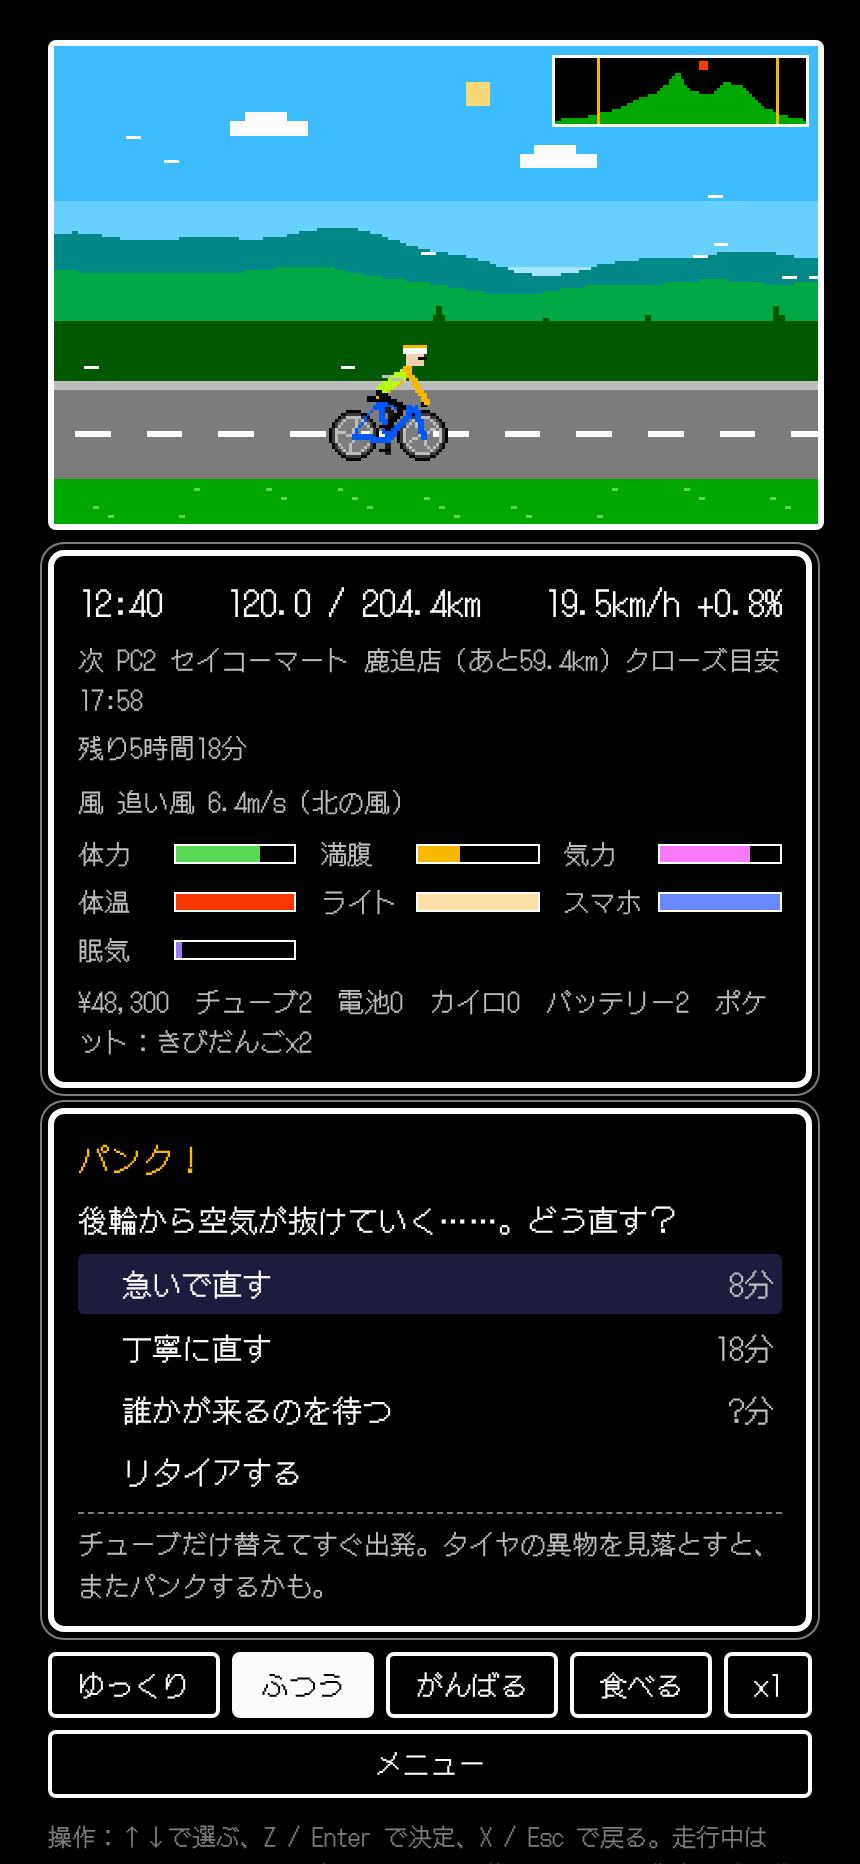
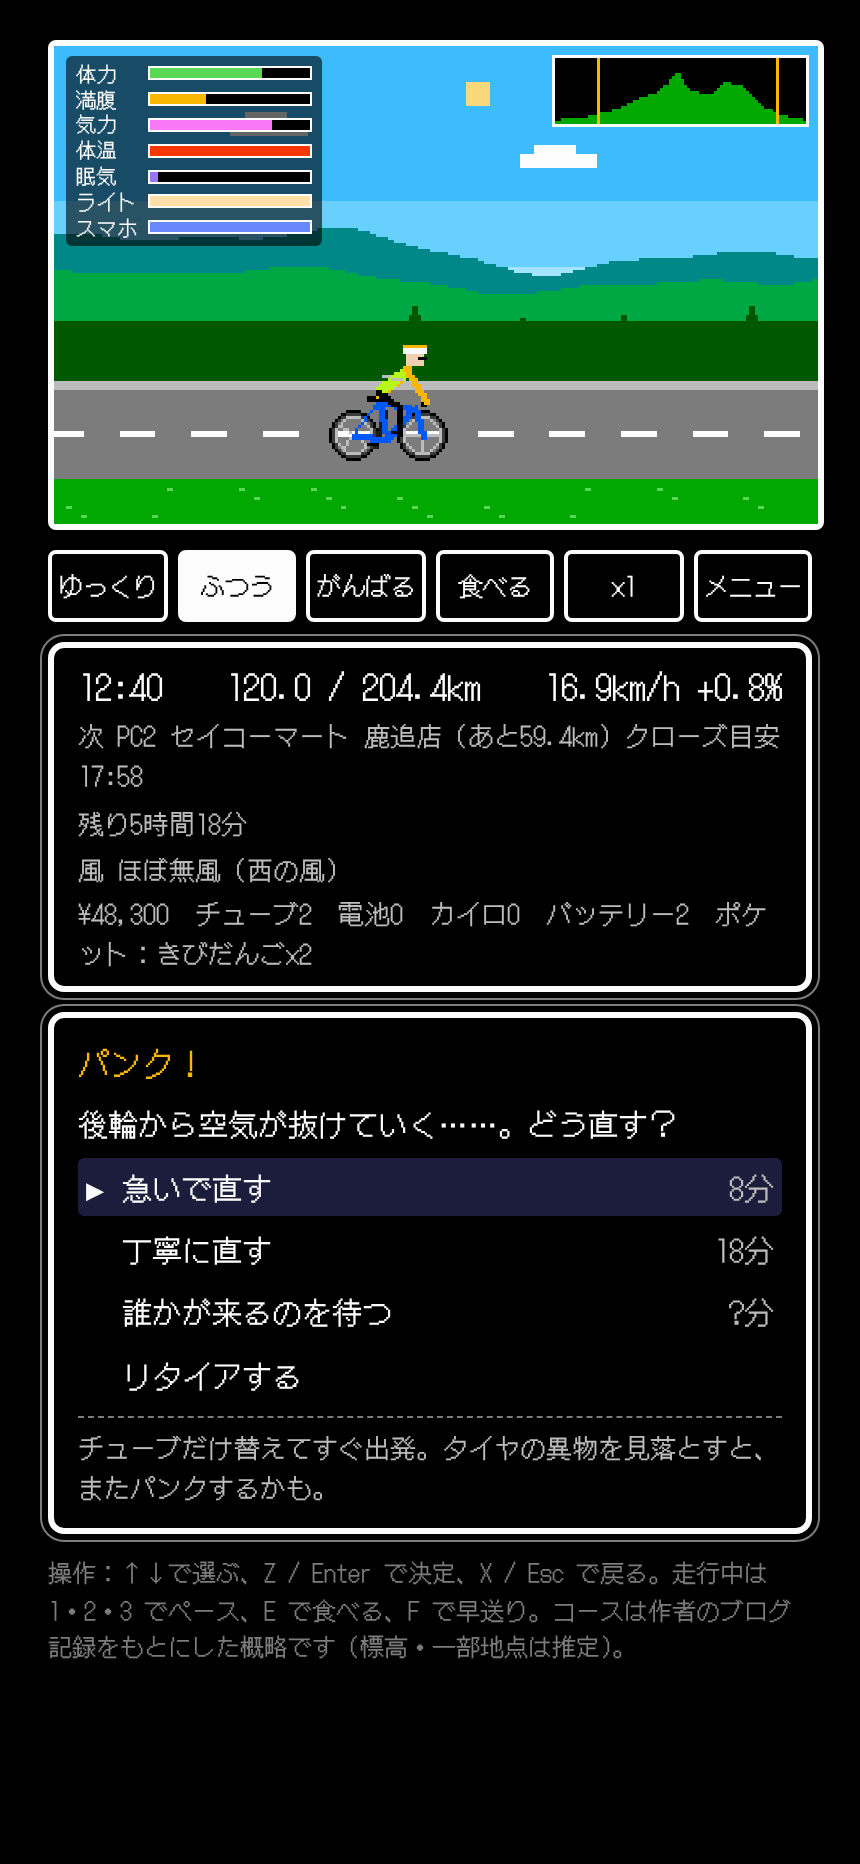
操作ボタンをゲーム画面のすぐ下に、ゲージを画面左上に重ねて表示
スクロールせずに操作できるように。スクリーンショットも撮り直し。

Claude-Session: https://claude.ai/code/session_015UeBf5kKfem5CacwLkgUne

diff --git a/app/index.html b/app/index.html
@@ -25,8 +25,14 @@ body{background:var(--bg);color:var(--fg);font-family:var(--pixel);font-size:15p
 #app{max-width:560px;margin:0 auto;padding-block:12px 24px;display:flex;flex-direction:column;gap:10px}
 #screen{position:relative;width:100%;aspect-ratio:256/160;max-width:100%;border:3px solid var(--fg);border-radius:4px;overflow:hidden;background:#000}
 #cv{width:100%;height:100%;display:block;image-rendering:pixelated;image-rendering:crisp-edges}
+#gauges{position:absolute;left:1.5%;top:2%;width:31%;background:rgba(0,0,0,.6);border-radius:3px;padding:3px 5px;display:flex;flex-direction:column;gap:1px;font-size:clamp(8px,2.4vw,11px);line-height:1.15}
+#gauges .g{display:flex;align-items:center;gap:4px;min-width:0}
+#gauges span{flex:0 0 3.1em;color:var(--fg);white-space:nowrap}
+#gauges i{flex:1;height:5px;border:1px solid var(--fg);position:relative;display:block;min-width:0;background:#000}
+#gauges b{position:absolute;inset:0 auto 0 0;display:block}
+#gauges .low span{color:var(--red);animation:blink .6s steps(1) infinite}
 .box{border:3px solid var(--fg);border-radius:8px;padding:10px 12px;background:var(--bg);box-shadow:0 0 0 3px var(--bg),0 0 0 4px var(--mute)}
-#hud{display:flex;flex-direction:column;gap:6px;font-variant-numeric:tabular-nums}
+#hud{display:flex;flex-direction:column;gap:2px;font-variant-numeric:tabular-nums;padding-block:6px}
 #hud .row{display:flex;flex-wrap:wrap;gap:4px 14px;justify-content:space-between}
 #hud .big{font-size:17px}
 #hud .small{font-size:13px;color:var(--dim)}
@@ -36,7 +42,7 @@ body{background:var(--bg);color:var(--fg);font-family:var(--pixel);font-size:15p
 .bar label{flex:0 0 auto;width:3.2em;color:var(--dim)}
 .bar i{flex:1;height:8px;border:1px solid var(--fg);display:block;position:relative;min-width:0}
 .bar b{position:absolute;inset:0 auto 0 0;display:block;width:50%}
-#win{min-height:150px;display:flex;flex-direction:column;gap:6px}
+#win{min-height:120px;display:flex;flex-direction:column;gap:6px}
 .w-title{color:var(--gold);font-size:16px;text-wrap:balance}
 .w-text{white-space:pre-line}
 .w-live{color:var(--sky);font-variant-numeric:tabular-nums}
@@ -54,8 +60,8 @@ body{background:var(--bg);color:var(--fg);font-family:var(--pixel);font-size:15p
 .log p{margin:0}
 .log p:last-child{color:var(--fg)}
 .log p:not(:last-child){color:var(--mute)}
-#ctrl{display:flex;flex-wrap:wrap;gap:6px}
-#ctrl button{all:unset;cursor:pointer;border:2px solid var(--fg);border-radius:4px;padding:4px 10px;font-size:14px;flex:1 1 auto;text-align:center}
+#ctrl{display:grid;grid-template-columns:repeat(6,minmax(0,1fr));gap:5px}
+#ctrl button{all:unset;cursor:pointer;border:2px solid var(--fg);border-radius:4px;padding:6px 0;font-size:clamp(10px,3vw,13px);letter-spacing:-.04em;text-align:center;white-space:nowrap;overflow:hidden;min-width:0}
 #ctrl button.on{background:var(--fg);color:var(--bg)}
 #ctrl button:focus-visible{outline:2px solid var(--gold);outline-offset:2px}
 .help{font-size:12px;color:var(--mute)}
@@ -68,23 +74,16 @@ a{color:var(--sky)}
 </head>
 <body>
 <div id="app">
-  <div id="screen"><canvas id="cv" width="256" height="160" aria-label="ゲーム画面"></canvas></div>
-  <div id="hud" class="box" hidden>
-    <div class="row big"><span id="h-time"></span><span id="h-dist"></span><span id="h-spd"></span></div>
-    <div class="row small" id="h-next"></div>
-    <div class="row small" id="h-wx"></div>
-    <div class="bars">
-      <div class="bar"><label>体力</label><i><b id="b-sta" style="background:var(--green)"></b></i></div>
-      <div class="bar"><label>満腹</label><i><b id="b-hun" style="background:var(--gold)"></b></i></div>
-      <div class="bar"><label>気力</label><i><b id="b-spi" style="background:var(--pink)"></b></i></div>
-      <div class="bar"><label>体温</label><i><b id="b-tmp" style="background:var(--red)"></b></i></div>
-      <div class="bar"><label>ライト</label><i><b id="b-lit" style="background:#fce0a8"></b></i></div>
-      <div class="bar"><label>スマホ</label><i><b id="b-pho" style="background:var(--blue)"></b></i></div>
-      <div class="bar"><label>眠気</label><i><b id="b-slp" style="background:#9878f8"></b></i></div>
-    </div>
-    <div class="row small" id="h-inv"></div>
-  </div>
-  <div id="win" class="box"></div>
+  <div id="screen"><canvas id="cv" width="256" height="160" aria-label="ゲーム画面"></canvas>
+    <div id="gauges" hidden>
+      <div class="g"><span>体力</span><i><b id="g-sta" style="background:var(--green)"></b></i></div>
+      <div class="g"><span>満腹</span><i><b id="g-hun" style="background:var(--gold)"></b></i></div>
+      <div class="g"><span>気力</span><i><b id="g-spi" style="background:var(--pink)"></b></i></div>
+      <div class="g"><span>体温</span><i><b id="g-tmp" style="background:var(--red)"></b></i></div>
+      <div class="g"><span>眠気</span><i><b id="g-slp" style="background:#9878f8"></b></i></div>
+      <div class="g"><span>ライト</span><i><b id="g-lit" style="background:#fce0a8"></b></i></div>
+      <div class="g"><span>スマホ</span><i><b id="g-pho" style="background:var(--blue)"></b></i></div>
+    </div></div>
   <div id="ctrl" hidden>
     <button id="c-slow" data-pace="slow">ゆっくり</button>
     <button id="c-norm" data-pace="normal">ふつう</button>
@@ -93,6 +92,13 @@ a{color:var(--sky)}
     <button id="c-ff">×1</button>
     <button id="c-menu">メニュー</button>
   </div>
+  <div id="hud" class="box" hidden>
+    <div class="row big"><span id="h-time"></span><span id="h-dist"></span><span id="h-spd"></span></div>
+    <div class="row small" id="h-next"></div>
+    <div class="row small" id="h-wx"></div>
+    <div class="row small" id="h-inv"></div>
+  </div>
+  <div id="win" class="box"></div>
   <div class="help">操作：↑↓で選ぶ、Z / Enter で決定、X / Esc で戻る。走行中は 1・2・3 でペース、E で食べる、F で早送り。コースは作者のブログ記録をもとにした概略です（標高・一部地点は推定）。</div>
 </div>
 
@@ -1341,7 +1347,7 @@ function endRun(title,text,o={}){
   save();
   menu({title,text:text+extra+`\n疲労 ${Math.round(P.fatigue)}`,items:[{label:"家に帰る",fn:()=>{R=null;nextWeek()}}]});
 }
-function showRideUI(on){$("#hud").hidden=!on;$("#ctrl").hidden=!on}
+function showRideUI(on){$("#hud").hidden=!on;$("#ctrl").hidden=!on;$("#gauges").hidden=!on}
 
 /* ================= MENUS: TITLE / SHOP / HUB ================= */
 function title(){
@@ -1539,8 +1545,8 @@ function updateHUD(dt){
   if(R.sleepy>=60)tags.push(R.sleepy>=85?'<span class="warn">限界まで眠い</span>':"眠い");
   if(R.lodge!=null){const L=R.course.lodges[R.lodge];if(L.km>R.km)tags.push(`宿：${L.name}（あと${(L.km-R.km).toFixed(0)}km）`)}
   $("#h-wx").innerHTML=`<span>風 ${aw<1.5?"ほぼ無風":(hw>0?'<span class="warn">向かい風</span>':"追い風")+" "+aw.toFixed(1)+"m/s"}（${compass(R.windDay.dir)}の風）${tags.length?"　"+tags.join("　"):""}</span>`;
-  const set=(id,val)=>{$(id).style.width=clamp(val,0,100)+"%"};
-  set("#b-sta",R.stamina/R.staMax*100);set("#b-hun",R.hunger);set("#b-spi",R.spirit);set("#b-tmp",R.temp);set("#b-lit",R.light/R.lightMax*100);set("#b-pho",R.phone);set("#b-slp",R.sleepy);
+  for(const [id,v,inv] of [["sta",R.stamina/R.staMax*100],["hun",R.hunger],["spi",R.spirit],["tmp",R.temp],["slp",R.sleepy,1],["lit",R.light/R.lightMax*100],["pho",R.phone]]){
+    const el=$("#g-"+id);el.style.width=clamp(v,0,100)+"%";el.parentNode.parentNode.classList.toggle("low",inv?v>=70:v<25)}
   const pk={};R.pocket.forEach(p=>pk[p.name]=(pk[p.name]||0)+1);
   $("#h-inv").textContent=`${yen(P.money)}　チューブ${R.tubes}　電池${R.batteries}　カイロ${R.kairo}${R.bank?"　バッテリー"+R.bank:""}　ポケット：${Object.entries(pk).map(([k,n])=>k+"×"+n).join(" ")||"なし"}${R.train.length?"　トレイン："+R.train.map(m=>FRIENDS[m.id].name).join("・"):""}`;
 }
